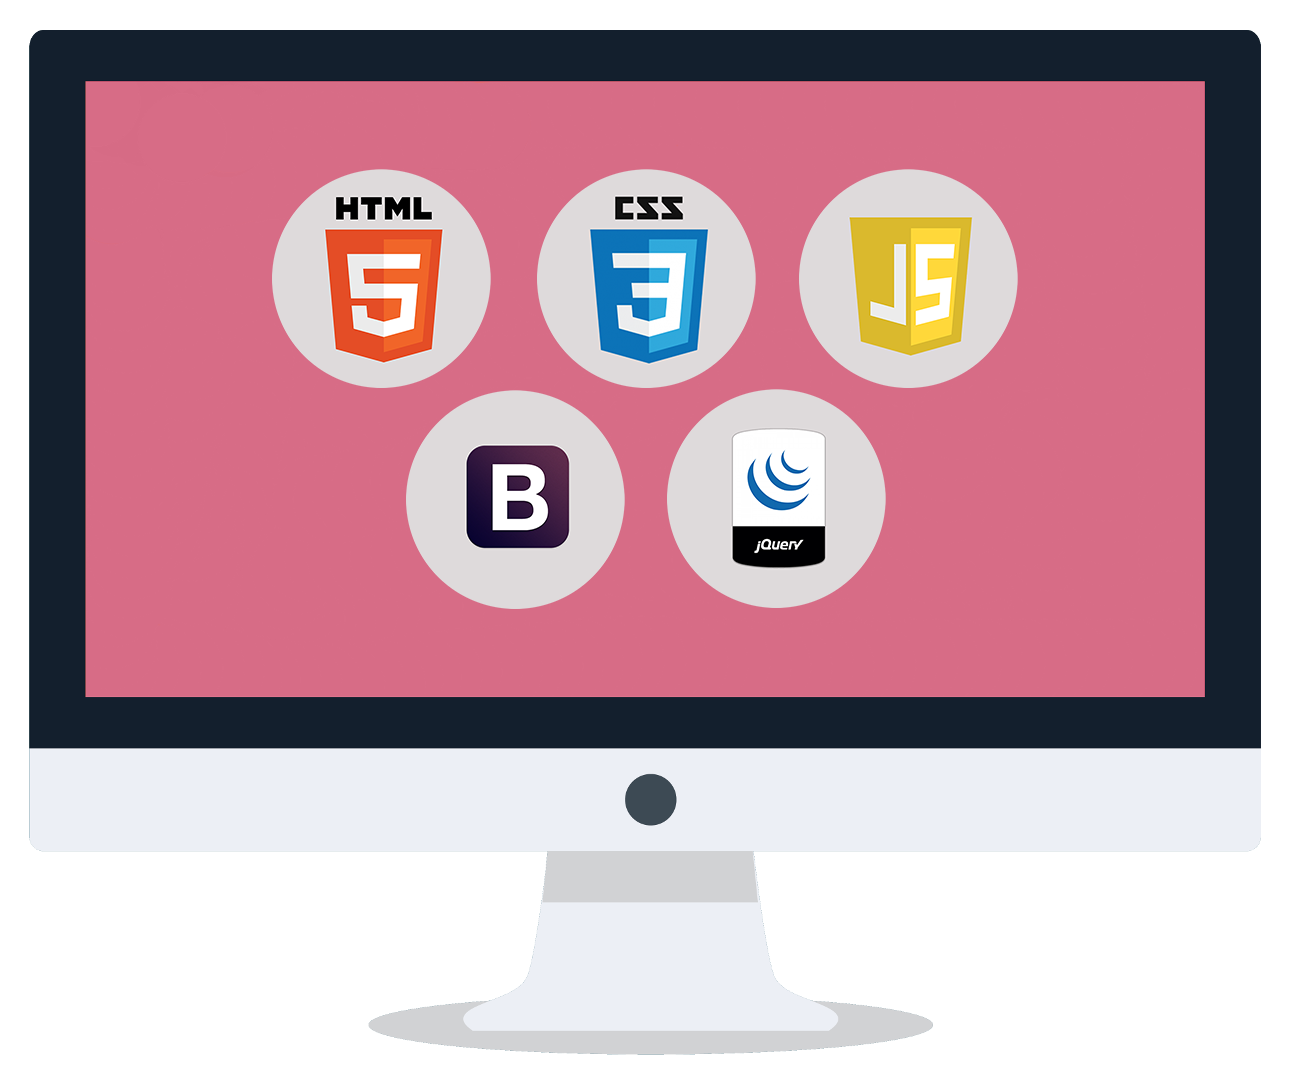
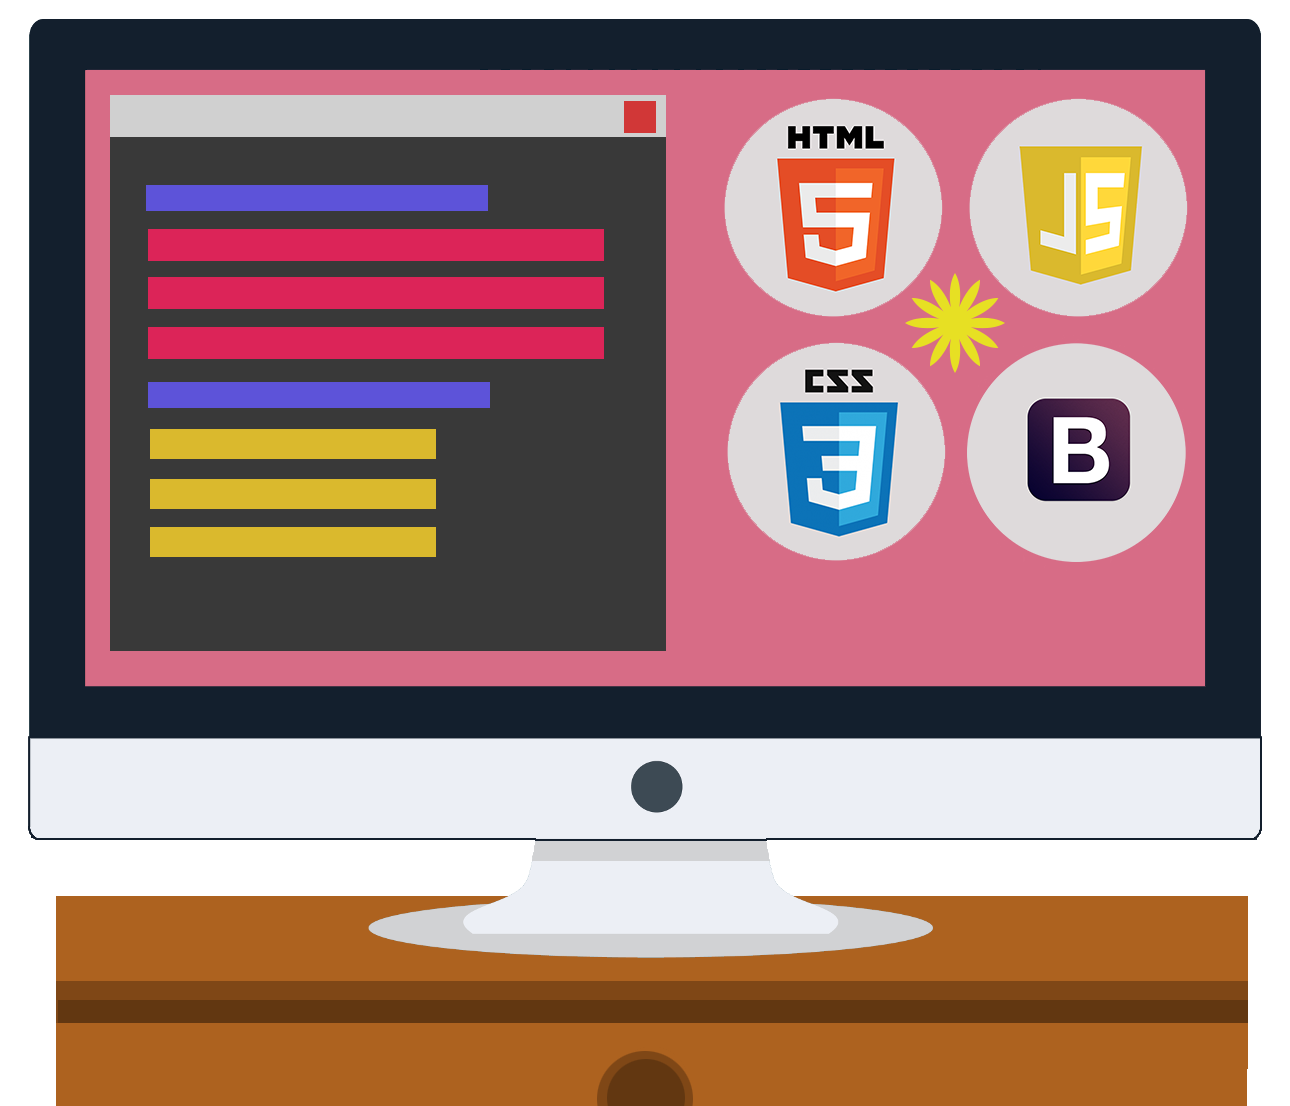
overall design changes

diff --git a/index.html b/index.html
@@ -36,134 +36,136 @@
 			</div>
 		</div>
 	</nav>
-	
+	<div class="circuit-bg">
 	<div class = "container">
 		<center>
-		<p class = "textred">Hello!</p>
+		<p class = "textred">HELLO!</p>
 		<div class = "col-lg-6 col-lg-push-3 col-xs-12">
 			<p>My name is Hafiz and I'm a web developer that are based in Johor Bahru.</p>
 		</div>
 		</center>
 		<br>
-		<div class="col-lg-8 col-lg-push-2">
-			<img onload="this.style.opacity='1';" class="fadeincss" src="img/monitor.png" height="100%" width="100%">
+		<div class="col-lg-8 col-lg-push-2 text-center">
+			<img onload="this.style.opacity='1';" class="fadeincss" src="img/monitor.png" height="75%" width="75%">
 		</div>
+	</div>
 	</div>
   <div class="bg-softred" style="color: #FFFFFF;">
 	<div class = "container">
-		<center></center>
-		<p class = "textwhite text-center">Experience</p>
+		<br>
+		<p class = "textwhite text-center">EXPERIENCE</p>
 		<br>
 		<div class="row">
 			<div class="col-lg-12">
-				<div class = "col-lg-8 col-lg-push-2 col-xs-12">
+				<div class = "col-md-8 col-md-push-2 col-xs-12">
 					<p class="text-center">2016 - Present: Programmer, <a class="my-link" target="_blank" href="http://www.zanko.com.my">Zanko Sdn. Bhd.</a></p>
 				</div>
-				
-				<ul class="col-lg-8 col-lg-push-2 col-xs-12" style="list-style-type:square">
+				<div class="col-md-8 col-md-push-2 col-xs-12" style="color: #CCCCCC;">
+				<ul style="list-style-type:square">
 				  <li>Develop a system following the agile system development method.</li>
 				  <li>Handle both the user interface and the server-side development of the system.</li>
 				  <li>Plan and execute the complex project modules which have interrelation with each other to apply it into the system.</li>
 				</ul>
+				</div>
 			</div>
 		</div>
 
+		<div class="col-xs-4 col-xs-push-4">
 		<hr class="fancy-edge">
+		</div>
+		<div class="clearfix"></div>
 
 		<div class="row">
 			<div class="col-lg-12">
-				<div class="col-lg-8 col-lg-push-2 col-xs-12">
+				<div class="col-md-8 col-md-push-2 col-xs-12">
 					<p class="text-center">2015 - 2016: Front-End Web Developer, Misa Travel</p>
 				</div>
-				<ul class="col-lg-8 col-lg-push-2 col-xs-12" style="list-style-type:square">
+				<div class="col-md-8 col-md-push-2 col-xs-12" style="color: #DADADB;">
+				<ul style="list-style-type:square">
 				  <li>Develop the front-end side of websites and mobile apps using the latest library and framework.</li>
 				  <li>Design planning and produce assets for the user interface.</li>
 				  <li>Detect and fix known issue that may disrupt user experience of the website and mobile application.</li>
 				</ul>
+				</div>
 			</div>
-		</div>
+		</div><br>
 		
+		<div class="col-xs-4 col-xs-push-4">
 		<hr class="fancy-edge">
+		</div>
+		<div class="clearfix"></div>
 
 		<div class="row">
 			<div class="col-lg-12">
-				<div class="col-lg-8 col-lg-push-2 col-xs-12">
+				<div class="col-md-8 col-md-push-2 col-xs-12">
 					<p class="text-center">Early 2015: Computer Technician, Bin Abdat Trading</p>
 				</div>
-				<ul class="col-lg-8 col-lg-push-2 col-xs-12" style="list-style-type:square">
+				<div class="col-md-8 col-md-push-2 col-xs-12" style="color: #DADADB;">
+				<ul style="list-style-type:square">
 				  <li>Started as internship student and began to work here as I decided to gain knowledge about computer first.</li>
 				  <li>Handle the troubleshoot and repair of computer and laptops.</li>
 				  <li>Communicate with other people as I go to their house or company premise to handle their computer and laptop problems.</li>
 				</ul>
+				</div>
 			</div>
 		</div>
+		<br>
 	</div>
 	<br>
 	</div>
 	
 	<div class = "container">
-		<center>
-		<p class = "textred">Tools</p>
-		</center>
+		<br>
+		<p class = "textred text-center">EXPERTISE</p>
+		<br>
 		<div class="container cf">
 			<!-- tool one -->
 			<div class="animation-element slide-left tool">
 				<div class="header">
 					<div class="left">
-						<img src="img/notepad_logo.png" />
+						<img src="img/keyboard_logo.png" />
 					</div>
 					<div class="right">
-						<h3>Notepad++</h3>
-						<h4>Web Programming</h4>
+						<div style="margin-top: 10px;"></div>
+						<h3>Web Programming</h3>
 					</div>
 				</div>
-				<div class="content">I have been using this software to code since I was a student. All of the HTML, CSS, Javascript and other web programming languages are done using this. It is simple, easy to use and definitely fulfill its purpose as a programming tool.</div>
+				<div class="content">I'm able to code in web programming language such as HTML, Javascript, PHP and CSS. In addition, I'm experienced in development using libraries and framework such as Bootstrap, Jquery, Codeigniter and Laravel.
+				</div>
 			</div>
 			<!--tool two -->
 			<div class="animation-element slide-left tool">
 				<div class="header">
 					<div class="left">
-						<img src="img/photoshop_logo.png" />
+						<img src="img/monitor_logo.png" />
 					</div>
 					<div class="right">
-						<h3>Adobe Photoshop</h3>
-						<h4>Create or Edit Images</h4>
+						<div style="margin-top: 10px;"></div>
+						<h3>User Interface (UI)</h3>
 					</div>
 				</div>
-				<div class="content">Photoshop is one of my main tools to create or edit images whether for web design or mobile apps/games. I will definitely say I am an above average user in terms of skill in using this software. I can also use GIMP if somehow Photoshop is not available.</div>
+				<div class="content">From producing graphical assets to constructing the whole design, I'm able to do it all. My experience from creating web design, receipt, slip and mobile mock-up has certainly help my skill in design.  My tools for design is Photoshop, GIMP and Asperite.</div>
 			</div>
 			<!--tool three -->
-			<div class="animation-element slide-left tool">
+			<div class="animation-element slide-left tool" style="width: 100% !important;">
 				<div class="header">
 					<div class="left">
-						<img src="img/unity_logo.png" />
+						<img src="img/phone_logo.png" />
 					</div>
 					<div class="right">
-						<h3>Unity</h3>
-						<h4>Mobile Games and Apps Development</h4>
+						<div style="margin-top: 10px;"></div>
+						<h3>Mobile Application Development</h3>
 					</div>
 				</div>
-				<div class="content">Unity is once used for a company that I work at to create a mobile app before they decided to switch using Ionic framework. Ever since that, I used it from time to time to train my self in creating mobile app/games. Currently, a game is being developed by me and will soon be released. Stay tuned!</div>
+				<div class="content">I have experience in developing mobile application which was first developed in Unity then later switched to Ionic framework. Because developing in Unity is actually fun, I used my free time in developing a game and learn more about its programming language but has completely stopped once I feel the need in focusing the company project which is important.</div>
 			</div>
-			<!--tool four -->
-			<div class="animation-element slide-left tool">
-				<div class="header">
-					<div class="left">
-						<img src="img/aseprite_logo.png" />
-					</div>
-					<div class="right">
-						<h3>Aseprite</h3>
-						<h4>Create Simple Icon or Sprite</h4>
-					</div>
-				</div>
-				<div class="content"><i class="fa fa-quote-left"></i>Aseprite is an easy to use and perfect sprite editor for users and if you are skilled enough, you can make very high quality sprite with it. This is the software that I have been using to produce pixel sprites. Small icons whether for web design or mobile apps are also created using this for my previous work project.</div>
-			</div>
+
 		</div>
 	</div>
 	
 	<!-- Footer -->
 	<footer class="text-center site-footer">
-			<div class="container">
+			<div class="container" style="padding: 25px;">
 				<div class="row">
 					<div class="col-lg-12 footer-font">
 						&copy; 2016 <a class="my-link" href="index.html">Hafiz Idris</a>. All rights reserved.

diff --git a/portfolio.html b/portfolio.html
@@ -37,25 +37,27 @@
 			</div>
 		</div>
 	</nav>
-	
+	<div class="circuit-bg">
 	<div class = "container">
 		<center>
-		<p class = "textred">Portfolio</p>
+		<p class = "textred">PORTFOLIO</p>
 		<div class = "col-lg-6 col-lg-push-3 col-xs-12">
-			<p>I will show my latest work here whether it is work project (that can be shared) or personal project.</p>
+			<p>Every work and personal project from my career will be shown in this section.</p>
 		</div>
 		</center>
 		<br>
-		<div class="col-lg-8 col-lg-push-2">
-			<img onload="this.style.opacity='1';" class="fadeincss" src="img/portfolio.png" height="100%" width="100%">
+		<div class="col-lg-8 col-lg-push-2 text-center">
+			<img onload="this.style.opacity='1';" class="fadeincss" src="img/portfolio.png" height="75%" width="75%">
 		</div>
+	</div>
 	</div>
   <div class="bg-softred" style="color: #FFFFFF;">
 	<div class = "container">
-		<center>
-		<p class = "textwhite">Work project</p>
 		<br>
-		<div class = "col-lg-8 col-lg-push-2 col-xs-12">
+		<center>
+		<p class = "textwhite">Work Project</p>
+		<br>
+		<div class = "col-md-8 col-md-push-2 col-xs-12">
 		<p>
 		<b>Kiasu Perks</b>
 		<br>
@@ -64,7 +66,7 @@
 		</div>
 
 		</center>
-		<ul class="col-lg-8 col-lg-push-2 col-xs-12" style="list-style-type:square">
+		<ul class="col-md-8 col-md-push-2 col-xs-12" style="list-style-type:square">
 		  <li>Fully develop a dashboard styled web pages using HTML, CSS, Javascript, Jquery codes and Bootstrap for the responsive interface.</li>
 		  <li>Develop using AJAX to call the API that have been prepared by the back-end team.</li>
 		  <li>Handled small parts of mobile apps development using Unity and Ionic Framework.</li>
@@ -82,8 +84,8 @@
   <div class="modal-dialog modal-lg" role="document">
     <div class="modal-content">
       <div class="modal-header modal-header-color">
-        <button type="button" class="close" data-dismiss="modal" aria-label="Close"><span class="textwhite" aria-hidden="true">&times;</span></button>
-        <h4 class="modal-title textwhite" id="myModalLabel">Kiasu Perks</h4>
+        <button type="button" class="close" data-dismiss="modal" aria-label="Close" style="margin-top: 2px;"><span class="textwhite" aria-hidden="true">&times;</span></button>
+        <h4 class="modal-title" id="myModalLabel" style="color: #FFFFFF;">Kiasu Perks</h4>
       </div>
       <div class="modal-body">
 		<!-- Modal 1 - Content 1-->
@@ -98,7 +100,7 @@
 		<b>Role:</b>
 		<br>
 		Me and my team prepared the web page from scratch using HTML, CSS
-		<br>and Javascript. The framework that were used for the UI is Bootstrap.
+		<br>and Javascript. The library that were used for the UI is Bootstrap.
 		<br><hr>
 		<!-- Modal 1 - Content 2-->
 		<center><p><b>Merchant Management Page</b></p>
@@ -161,7 +163,7 @@
 	
 	<!-- Footer -->
 	<footer class="text-center site-footer">
-			<div class="container">
+			<div class="container" style="padding: 25px;">
 				<div class="row">
 					<div class="col-lg-12 footer-font">
 						&copy; 2016 <a class="my-link" href="index.html">Hafiz Idris</a>. All rights reserved.

diff --git a/css/main.css b/css/main.css
@@ -82,15 +82,15 @@ a:hover {
 .textred{
 	color: #760b25;
 	font-family: "Montserrat", "Helvetica Neue", Helvetica, Arial, sans-serif;
-	font-weight: 700;
-	font-size: 200%;
+	font-weight: bold;
+	font-size: 23px;
 }
 
 .textwhite{
 	color: #FFFFFF;
 	font-family: "Montserrat", "Helvetica Neue", Helvetica, Arial, sans-serif;
-	font-weight: 700;
-	font-size: 200%;
+	font-weight: bold;
+	font-size: 23px;
 }
 
 p{
@@ -223,7 +223,7 @@ h6 {
 
 .container {
   position: relative;
-  padding: 25px;
+
 }
 /*animation element*/
 
@@ -387,4 +387,18 @@ hr.fancy-edge:before {
   border-color: #FFFFFF; 
   border-width: 0 0 1px 0; 
   border-radius: 20px; 
+}
+
+.circuit-bg{
+  background-image:    url(../img/circuit.png);
+    background-size:     cover;                      /* <------ */
+    background-repeat:   no-repeat;
+    background-position: center center;    
+}
+
+.office-bg{
+  background-image:    url(../img/office.png);
+    background-size:     cover;                      /* <------ */
+    background-repeat:   no-repeat;
+    background-position: center center;    
 }

diff --git a/contact.html b/contact.html
@@ -40,7 +40,7 @@
 	
 	<div class = "container page-wrap">
 		<center>
-		<p class = "textred">Contact</p>
+		<p class = "textred">CONTACT</p>
 		<div class = "col-lg-6 col-lg-push-3 col-xs-12">
 			<p>Want to meet me? Website creation request? Job offers? 
 			<br>Do contact me. Here is my contact number and e-mail:
@@ -68,7 +68,7 @@
 	
 	<!-- Footer -->
 	<footer class="text-center site-footer">
-			<div class="container">
+			<div class="container" style="padding: 25px;">
 				<div class="row">
 					<div class="col-lg-12 footer-font">
 						&copy; 2016 <a class="my-link" href="index.html">Hafiz Idris</a>. All rights reserved.
